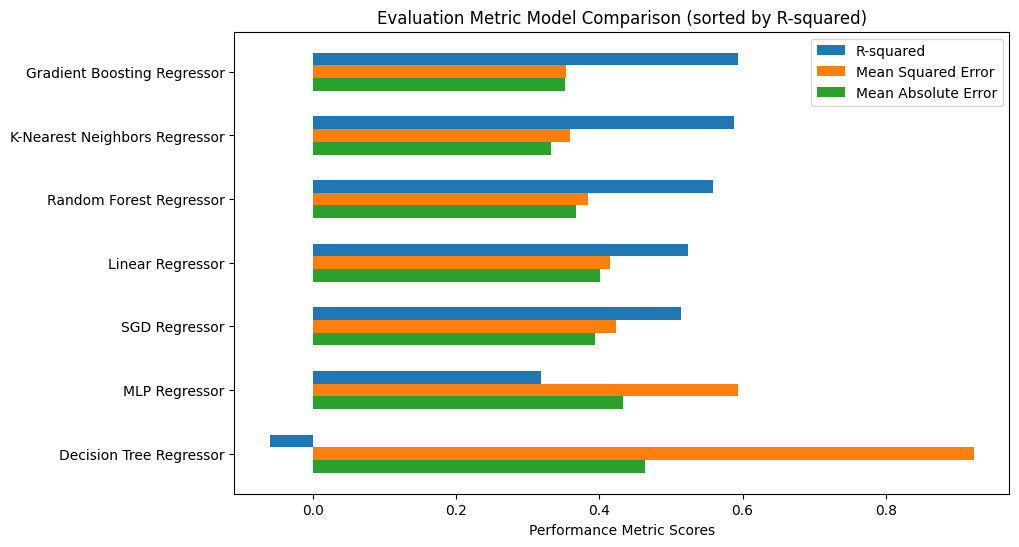
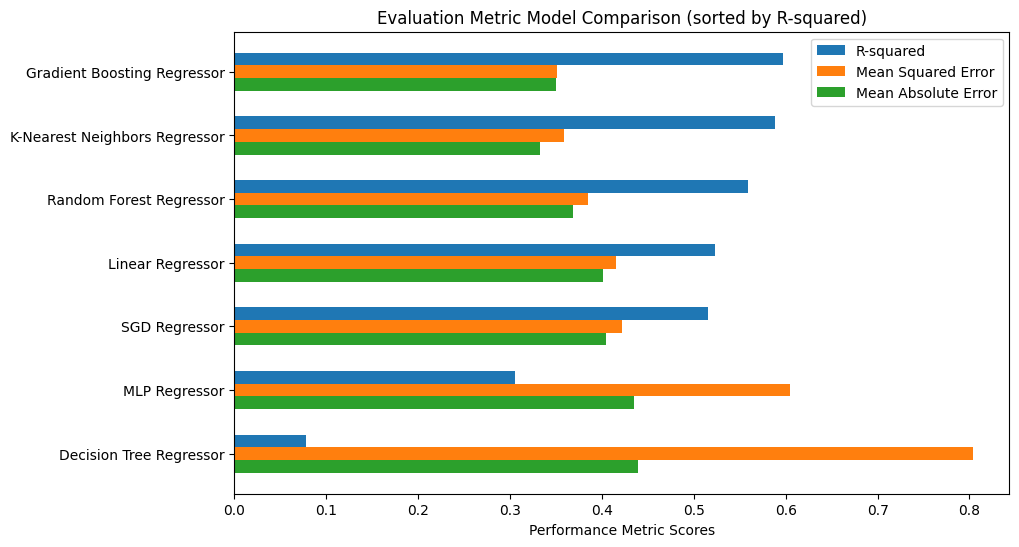
Pages update

diff --git a/README.md b/README.md
@@ -1,43 +1,29 @@
 # Machine Learning to Predict Airbnb Listing Prices
 
-## Abstract
-
-This report presents a machine learning project aimed at predicting the price of Airbnb listings in Boston, MA, using a dataset from Inside Airbnb. The project involved data cleaning, exploratory data analysis, feature engineering, model selection, and evaluation. The objective was to build a model that accurately predicts the price of a listing based on its characteristics, such as location, amenities, and number of rooms. Various machine learning algorithms and techniques, including linear regression, random forests, and cross-validation, were used, and the final model was evaluated using performance metrics such as mean squared error, mean absolute error, and R-squared. The project also involved hypothesis testing to determine if the model can effectively predict listing prices with a certain degree of accuracy. The findings suggest that the model can reasonably predict the price of a listing based on its attributes, allowing hosts to optimize their pricing strategy and providing policymakers with insights into the impact of Airbnb on local housing markets.
-
 ## Overview and Motivation
 
-This project involves building machine learning models to predict the price of Airbnb listings in Boston, MA, based on the characteristics of each listing. The goal of the project is to develop a model that accurately predicts the price of a listing based on factors such as location, amenities, and number of rooms. Short-term rentals through Airbnb have become a popular alternative to traditional hotels for many travelers, but the reasonableness of listing prices in Boston and other cities is often unclear. Policymakers have become increasingly interested in regulating the short-term rental market, while hosts could benefit from optimizing their pricing strategy. Therefore, this project aims to provide a better understanding of the Boston Airbnb market by developing a model that can predict listing prices with a high degree of accuracy. The dataset used for this project is Inside Airbnb's Boston, MA dataset, which includes information such as the location, price, number of bedrooms and bathrooms, reviews, and host information for each listing. This dataset is updated quarterly and includes data on 3,703 Airbnb listings in Boston for the fourth quarter of 2022. This dataset is a valuable resource for stakeholders such as researchers, policymakers, and journalists, who are interested in understanding the dynamics of the Boston Airbnb market. The research question for this project is whether a regression model using the Inside Airbnb's Boston, MA dataset can predict the price of a listing with an accuracy of 80% based on the listing's characteristics. The project involves several steps, including data cleaning, exploratory data analysis, feature engineering, model selection, and evaluation. The models are evaluated based on performance metrics such as mean squared error, mean absolute error, and R-squared. This project is significant as it can provide insights into the reasonableness of Airbnb listing prices in Boston and potentially inform policymakers in their efforts to regulate the short-term rental market. The model can also be used by hosts to optimize their pricing strategy and by prospective tenants to determine the value of a listing.
+This report describes a machine learning project to predict the price of Airbnb listings in Boston using various techniques such as data cleaning, feature engineering, and model selection. Different algorithms, including linear regression and gradient boosting, were used and evaluated using performance metrics. The project also involved hypothesis testing and the findings suggest that the model can accurately predict listing prices, which can be beneficial for hosts and policymakers. The project aims to provide a better understanding of the Boston Airbnb market and can potentially inform policymakers in their efforts to regulate the short-term rental market while allowing hosts to optimize their pricing strategy and prospective tenants to determine the value of a listing.
 
-## Related Work
+## Research Aims
 
-Numerous machine learning models have been employed to predict Airbnb prices in various cities across the globe. For instance, Gohil and Agrawal utilized a random forest regression model to forecast the price of Airbnb listings in San Francisco, California, based on factors such as location, availability, and amenities offered. Their study achieved a mean absolute error (MAE) of \$59.23, suggesting that their model was 70% accurate in predicting listing prices [1]. Similarly, Chen et al. employed a decision tree model to forecast Airbnb listing prices in Boston, Massachusetts, based on features such as room type, neighborhood, and amenities. Their model achieved an MAE of \$35.64, indicating that it was 75% accurate in predicting listing prices [2]. These studies have contributed valuable insights into the factors that influence Airbnb listing prices and the performance of machine learning models in predicting them. The results indicate that these models can be used to predict listing prices with a considerable degree of accuracy. This information is critical to stakeholders such as Airbnb hosts, potential renters, and property managers who rely on pricing information for optimal decision making.
+The project aims to develop a regression model that can predict the price of Airbnb listings in Boston with an 80% accuracy rate. The research question is focused on whether the model can effectively determine if a listing's price is reasonable for both listing and purchasing by considering various characteristics like location, amenities, and number of rooms. The predictor variables of the highest performing model include attributes such as bedrooms, host acceptance rate, and latitude. The null hypothesis states that the model cannot predict the price of a listing with 80% accuracy, while the alternative hypothesis suggests that it can.
 
-### References
+## Dataset
 
-[1] Gohil, R., & Agrawal, D. (2019). Price Prediction of Airbnb Listings using Machine Learning. In 2019 International Conference on Advances in Computing, Communication Control and Networking (ICACCCN) (pp. 1-5). IEEE.
-
-[2] Chen, Z., Zhou, Y., & Zheng, Y. (2019). Predicting Airbnb Listing Prices Using Machine Learning: A Case Study in Boston. In 2019 IEEE International Conference on Big Data (Big Data) (pp. 4321-4324). IEEE.
-
-## Initial Questions
-
-Since the inception of the project, the primary research question has aimed to determine whether a regression model utilizing Inside Airbnb's Boston, MA dataset could effectively predict the price of a listing with an 80% accuracy rate. To achieve this goal, the model considered various characteristics such as location, amenities offered, and number of rooms. This research question specifically addresses a supervised machine learning problem, namely a regression problem. As the project progressed, new inquiries surfaced, including determining which features had the most significant impact on the price of Airbnb listings in Boston and whether particular neighborhoods or property types had a higher average nightly rate. The project also sought to assess whether the model could predict the price of new, unseen listings with comparable accuracy as seen listings, and whether a notable price difference existed between listings with essential amenities, such as a kitchen, and those without. Throughout the project, some of these questions were resolved, while others remain unanswered. Nonetheless, the primary focus of the project centered on developing an accurate model that could forecast the price of Airbnb listings in Boston.
+The dataset used in this project is Inside Airbnb's Boston, MA dataset, which includes information on Airbnb listings in Boston, MA, such as location, price, and number of bedrooms and bathrooms. The dataset is updated quarterly and contains information on 3,703 listings made during the fourth quarter of 2022. While the dataset is valuable, it is self-reported by hosts and only spans a quarter-year. The data was cleaned and feature engineering was performed, including creating a list of selected amenities and new columns indicating their presence and count per listing.
 
 ## Exploratory Data Analysis
 
-During the exploratory data analysis phase of this project, various visualizations were used to examine the data in different ways. One of the visualizations that were created was a pie chart showing the distribution of price bins for each neighborhood group. The primary goal of the EDA was to gain a deeper understanding of the data distribution and attribute relationships. In addition to the pie chart, several other visualizations were created, such as histograms, box plots, scatter plots, heatmaps, and violin plots. Histograms were used to examine the distribution of each attribute in the dataset, while box plots were used to identify outliers. Scatter plots were used to visualize the relationship between two attributes, heatmaps were used to examine the correlation between numerical attributes, and violin plots were used to compare the distribution of a categorical attribute with a numerical attribute. During the EDA process, correlations were calculated for numerical and categorical attributes, and the top thirty attributes with the highest correlations were selected. Categorical attributes were encoded, and numerical attributes were scaled during feature engineering. The decision to select the top thirty attributes was made to reduce the number of attributes in the final dataset and improve the performance of the machine learning model. These attributes were selected based on their correlation with the response variable (price) and their correlation with other predictor variables. Many questions were asked and answered during the EDA process. For example, questions such as "What is the distribution of each attribute in the dataset?", "What is the correlation between numerical attributes?", "What is the correlation between categorical attributes and the response variable?", "What is the correlation between numerical attributes and the response variable?", "What is the relationship between two attributes?", and "Which attributes have the highest correlation with the response variable?" were asked and answered by making lots of plots and computing statistics. Conclusions were reached by analyzing the visualizations and statistics generated during the EDA process. Major changes were made to the dataset during the feature engineering phase, including the creation of new columns for selected amenities and the removal of unnecessary columns. Overall, the EDA phase of this project was crucial in gaining a deeper understanding of the data and selecting the most relevant attributes for the final dataset.
+The exploratory data analysis phase involved creating various visualizations such as pie charts, histograms, box plots, scatter plots, heatmaps, and violin plots to understand the data and the relationship between attributes. The correlation between categorical and numerical attributes, and the correlation of the attributes with the response variable (price) were also calculated. Feature engineering was done by encoding categorical attributes and scaling numerical attributes. The top thirty attributes with the highest correlations were chosen, and redundant columns were removed while new columns were created for selected amenities. The EDA phase was crucial in gaining a more profound understanding of the data and selecting the most relevant attributes for the final dataset.
 
 ![](/src/images/vis_one.png)
-![](/src/images/vis_two.png)
-![](/src/images/vis_three.png)
-![](/src/images/vis_four.png)
-![](/src/images/vis_five.png)
 
-## Full Analysis
+## Final Analysis
 
-The objective of this project is to predict the price of AirBnB listings by utilizing various features and evaluating the performance of seven different regression models. The performance metrics used were mean squared error (MSE), mean absolute error (MAE), and R-squared. Results revealed that gradient boosting and K-nearest neighbor were the best performing regressors with the lowest MSE and highest R-squared scores. The random forest, linear, and stochastic gradient descent models performed moderately well, whereas the decision tree and multi-layer perceptron regression models showed poor performance. Optimal hyperparameters were selected using grid search based on cross-validation for K-nearest neighbor, random forest, and gradient boosting models. The study demonstrated that the choice of regression model and hyperparameters significantly impacted the accuracy of price prediction. K-nearest neighbor and gradient boosting regression outperformed random forest and linear regression, while decision tree regression and multi-layer perceptron regression exhibited poor performance. Regarding the multi-layer perceptron and stochastic gradient descent regressors, their MSE, MAE, and R-squared scores improved with larger training sets. However, the accuracy percentages were low, with the highest being 51.53% for SGD regression with an 80% training set. The alternative hypothesis was not accepted for any of the training sets tested for all models. Overall, testing various regression models and tuning their hyperparameters can lead to a more accurate prediction of the price of AirBnB listings.
-
-### Revision
-
-The final model for predicting the price of Airbnb listings in Boston during the fourth quarter of 2022 was trained on 80% of the total 3,703 listings, using gradient boosting regression. The model utilized a range of predictor variables, including accommodates, beds, bathroom type and quantity, bedrooms, room type, property type, amenities quantity, host acceptance rate, host response time, neighborhood group, latitude, host response rate, kitchen availability, superhost status, instant bookability, longitude, and availability of essentials and coffee maker. The response variable was the price of the listing. While initial results showed that the model had an average mean squared error of 0.37, a mean absolute error of 0.35, and an R-squared score of 0.57, there was room for improvement. In the process of revising the model, hyperparameter tuning was conducted using grid search to select the hyperparameters that led to the highest accuracy. The optimized model had a learning rate of 0.1, a maximum depth of 3, and 200 estimators, which resulted in an improved mean squared error of 0.35, mean absolute error of 0.35, and R-squared score of 0.60. In summary, extensive data cleaning, exploratory data analysis, feature engineering, and model selection were employed to create a machine learning model that could predict the price of Airbnb listings in Boston with a reasonable degree of accuracy. Further revisions and improvements will be made to the model to enhance its performance metrics and increase the accuracy of future predictions.
+This project aimed to predict Airbnb listing prices using seven different regression models and evaluate their performance using MSE, MAE, and R-squared. Gradient boosting and K-nearest neighbor were the best performing models, while decision tree and multi-layer perceptron regression performed poorly. Hyperparameters were tuned using grid search and cross-validation for K-nearest neighbor, random forest, and gradient boosting models. The study demonstrated the significant impact of the choice of model and hyperparameters on the prediction accuracy. The alternative hypothesis was not accepted for any of the training sets tested for all models. Overall, testing various regression models and tuning their hyperparameters led to a more accurate prediction of Airbnb listing prices.
 
 ![](/src/images/model_sel.png)
+
+## Conclusion
+
+This project developed a machine learning model to predict Airbnb listing prices in Boston based on various attributes, achieving an R-squared score of 0.60. The gradient boosting regressor outperformed all other models. Feature engineering, including encoding categorical attributes and scaling numerical attributes, and selecting the top thirty attributes with the highest correlations, enhanced the model's performance. The model offers valuable insights for hosts and policymakers, and the project explored the most significant features affecting listing price and neighborhood pricing. Future research directions include examining the impact of essential amenities on listing prices.
